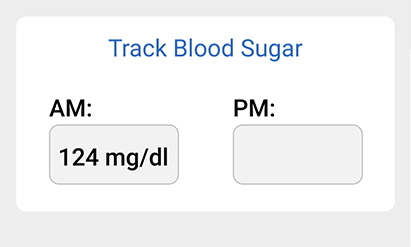
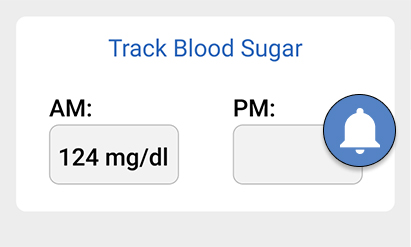
notification and cal btns fixed

Changed region(s): [[0.7591, 0.3684, 0.9635, 0.7085]]

diff --git a/index.html b/index.html
@@ -27,7 +27,7 @@
 <!-- ***CONTENT*** -->
 
 
-<!-- <div class="notification"><img src="assets/notification.png" alt="notification button"></div> -->
+
 <div class="content">
   <div class="greeting"><h1>Good Evening Sue!</h1></div>
   <div class="day">
@@ -40,7 +40,7 @@
     <img src="assets/med2.jpg" alt="medication">
     <img src="assets/med3.jpg" alt="medication">
   </div>
-  <img src="assets/blood.jpg" alt="blood sugar tracker">
+  <a href="https://clianx037.github.io/CL_UX_UI_Final_Project/"><img src="assets/blood2.jpg" alt="blood sugar tracker"></a>
 </div>
 
 
@@ -50,7 +50,8 @@
 
 
 <footer class="footer">
-  <a href="calender.html"><img src="assets/bot_nav.jpg" alt="navigation"></a>
+  <a href="calender.html"><img class="ft_left" src="assets/cal.jpg" alt="navigation"></a>
+  <img class="ft_right" src="assets/therest.jpg" alt="navigation">
 </footer>
 
 

diff --git a/css/style.css b/css/style.css
@@ -76,12 +76,14 @@ h3{
 }
 .notification{
     position: fixed;
+    left: 100px;
 }
 
 /* ***FOOTER*** */
 
-.footer{
-    height: 73px;
-    margin-bottom: 20px;
-    background-color:#c2c2c2;
+.ft_left{
+    float: left;
+}
+.ft_right{
+    float: right;
 }
